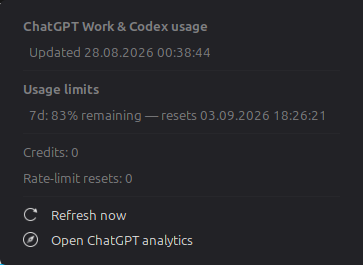
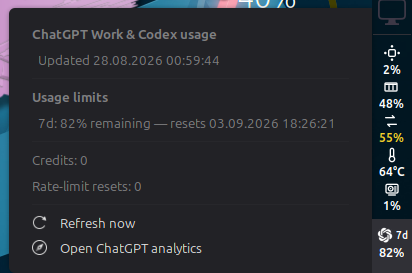
Improve README product presentation (#2)
Show usage menu in panel context

diff --git a/README.md b/README.md
@@ -1,5 +1,7 @@
 <p align="center">
-  <img src="icon.png" width="96" height="96" alt="ChatGPT Usage icon">
+  <picture>
+    <img src="icon.png" width="96" height="96" alt="ChatGPT Usage icon">
+  </picture>
 </p>
 
 <h1 align="center">ChatGPT Usage for Cinnamon</h1>
@@ -20,7 +22,7 @@
 | -------------------------------------- | --------------------------------------------------------- |
 | ![Horizontal top bar](docs/topbar.png) | ![Above Adaptive System Monitor](docs/vertical-panel.png) |
 
-![Usage menu with reset time and credits](docs/usage-menu.png)
+![Usage menu beside the vertical panel applet](docs/usage-menu.png)
 
 | General settings                               | Colors and thresholds                       |
 | ---------------------------------------------- | ------------------------------------------- |
@@ -48,8 +50,9 @@ cd cinnamon-chatgpt-usage
 ```
 
 Then open **System Settings → Applets** and add **ChatGPT Usage** to a panel.
-Requirements: Cinnamon 5.8+, Python 3 and a current Codex CLI signed in with
-ChatGPT. Version 0.1.0 is tested on Cinnamon 6.6.9 with Codex CLI 0.150.1.
+Requirements: Cinnamon 5.8+, Python 3 and a current
+[Codex CLI](https://learn.chatgpt.com/docs/codex/cli#getting-started) signed in
+with ChatGPT. Version 0.1.0 is tested on Cinnamon 6.6.9 with Codex CLI 0.150.1.
 
 Run `./install.sh` again after updates. `./uninstall.sh` removes the applet while
 retaining its settings.
